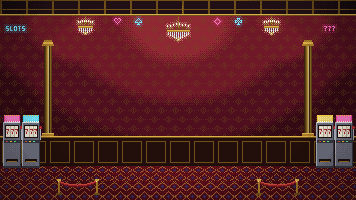
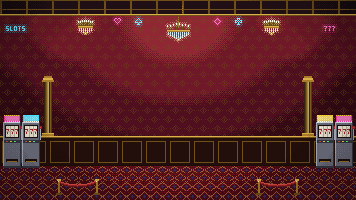
fix(ui): pilares del Casino más bajos para que no queden detrás de las reglas en el móvil

Changed region(s): [[0.8343, 0.18, 0.8961, 0.42], [0.1236, 0.18, 0.1545, 0.42]]

diff --git a/tool/pixelart/cantina.py b/tool/pixelart/cantina.py
@@ -1351,9 +1351,9 @@ def casino_table_scene(width):
     mahogany_wainscot(rail, flr, lamps)
     casino_carpet(flr, lamps)
     # gold columns framing the room, just inside the slot machines
-    # the columns start under the band where Blackjack prints its rules (y 31-40)
-    gold_column(44, 8, 46, rail - 3, lamps)
-    gold_column(R(52), 8, 46, rail - 3, lamps)
+    # short columns: they start under the band where Blackjack prints its rules (y ~63-72 on phones)
+    gold_column(44, 8, 82, rail - 3, lamps)
+    gold_column(R(52), 8, 82, rail - 3, lamps)
     # left: a bank of slot machines under a SLOTS sign
     neon_text('SLOTS', 6, 26, 'neon_c')
     slot_machine(3, flr + 2, 18, 46, 'neon_p')
